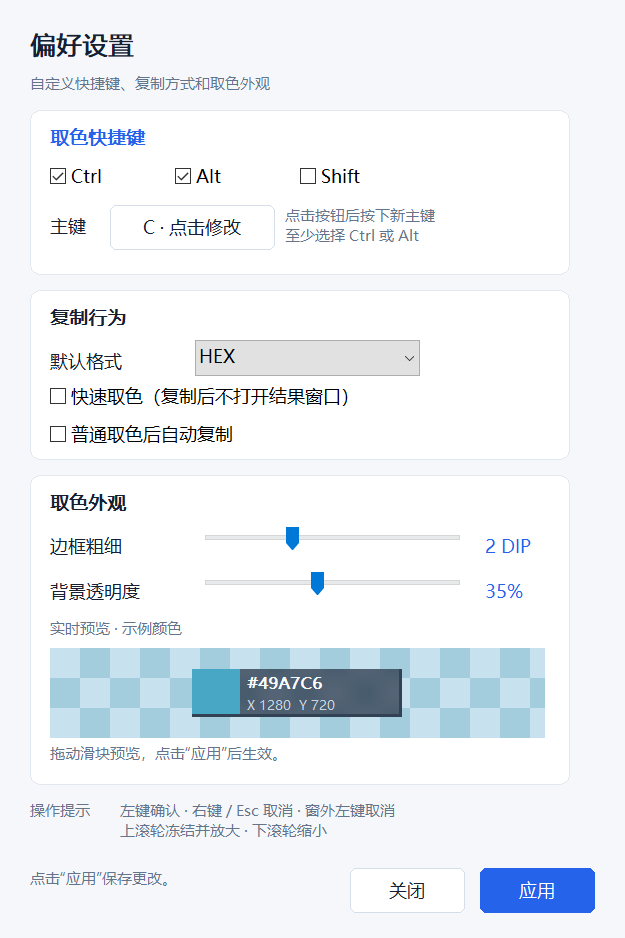
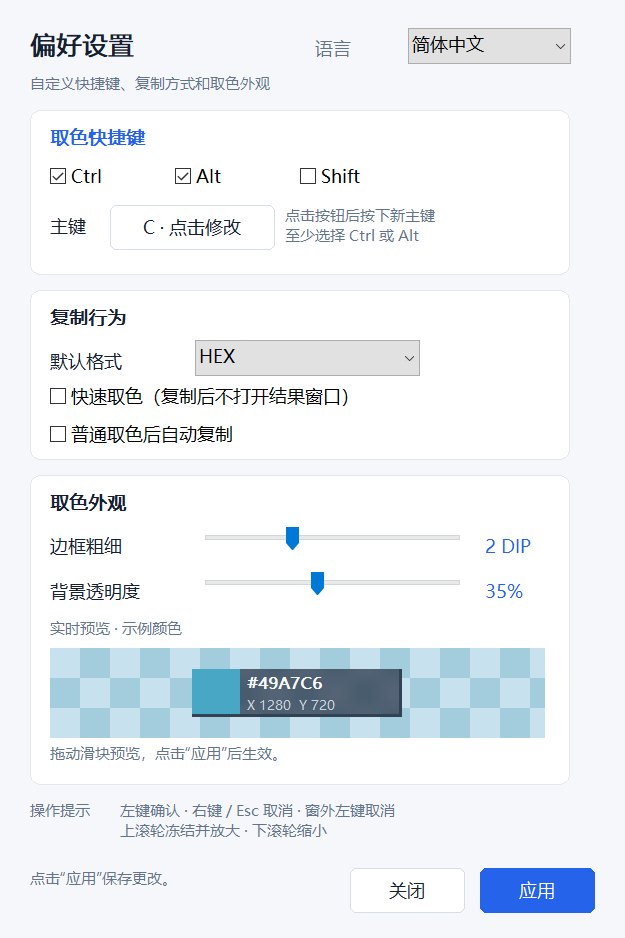
docs(i18n): document language selection and refresh bilingual previews

Changed region(s): [[0.6384, 0.0309, 0.912, 0.0928], [0.4864, 0.0309, 0.5472, 0.0618]]

diff --git a/README.md b/README.md
@@ -12,9 +12,11 @@ A native Windows color picker that stays in your system tray. Pick a pixel anywh
 2. Run the installer, or extract the entire ZIP and open `color-picker.exe`. No administrator privileges are required.
 3. On your first manual launch, read the short guide, then find Color Picker in the system tray, including the hidden-icons area. Startup at Windows sign-in stays quiet.
 4. Press **Ctrl + Alt + C**, move over the color you want, and **left-click** to select it.
-5. In the result window, copy HEX, RGB, CSS RGB, or HSL. Choose **重新取色** (Pick again) to select another color.
+5. In the result window, copy HEX, RGB, CSS RGB, or HSL. Choose **Pick again** to select another color.
 
-The target platform is **Windows 11 x64**. Windows 10 22H2 x64 compatibility has not yet been fully verified. The app's interface is currently **Simplified Chinese**; the installer offers English and Simplified Chinese. Builds are currently unsigned. See [known limitations](docs/known-limitations.md) for the validation status.
+The app and installer support **English and Simplified Chinese**. The app initially follows your Windows display language: Chinese uses Simplified Chinese; other languages use English. Change **Language** in Settings and click **Apply** to switch immediately, without restarting.
+
+The target platform is **Windows 11 x64**. Windows 10 22H2 x64 compatibility has not yet been fully verified. Builds are currently unsigned. See [known limitations](docs/known-limitations.md) for the validation status.
 
 ## Pick precisely
 
@@ -33,11 +35,11 @@ The frozen preview uses a snapshot, so you can inspect a tiny target without cha
 
 ![Frozen pixel grid with a color value, source coordinates, and zoom level](docs/images/ui-frozen.png)
 
-Starting again during an active pick does not create another session. The tray menu shows your current shortcut and whether Windows registered it successfully. Closing a result window leaves the app in the tray. To quit completely, right-click the tray icon and choose **退出** (Exit).
+Starting again during an active pick does not create another session. The tray menu shows your current shortcut and whether Windows registered it successfully. Closing a result window leaves the app in the tray. To quit completely, right-click the tray icon and choose **Exit**.
 
 ## Copy the format you need
 
-Every result includes the color swatch, original coordinates, and whether it came from live or frozen picking. Values are selectable, and each row has its own **复制** (Copy) button.
+Every result includes the color swatch, original coordinates, and whether it came from live or frozen picking. Values are selectable, and each row has its own **Copy** button.
 
 | Format | Example |
 | --- | --- |
@@ -46,18 +48,19 @@ Every result includes the color swatch, original coordinates, and whether it cam
 | CSS RGB | `rgb(255 0 0)` |
 | HSL | `hsl(0 100% 50%)` |
 
-The main Copy button uses your default format, initially HEX. A successful copy briefly changes that button to **已复制** (Copied), keeping the normal window layout stable. Only failures expand an error message. The result window supports **Tab**, **Enter**, and **Esc** for keyboard navigation and closing.
+The main Copy button uses your default format, initially HEX. A successful copy briefly changes that button to **Copied**, keeping the normal window layout stable. Only failures expand an error message. The result window supports **Tab**, **Enter**, and **Esc** for keyboard navigation and closing.
 
-**Automatic copying and Quick pick are off by default.** Ordinary automatic copying still opens the result window. Enable **快速取色** (Quick pick) to always copy the default format and continue in your current app, without a result popup or focus change on success. If copying fails, the result window appears so you can retry. Your ordinary automatic-copy preference is retained while Quick pick is on and resumes when you turn it off.
+**Automatic copying and Quick pick are off by default.** Ordinary automatic copying still opens the result window. Enable **Quick pick** to always copy the default format and continue in your current app, without a result popup or focus change on success. If copying fails, the result window appears so you can retry. Your ordinary automatic-copy preference is retained while Quick pick is on and resumes when you turn it off.
 
-![Color result with selectable values and copy controls](docs/images/ui-result.png)
+![Color result with selectable values and copy controls](docs/images/ui-result-en.png)
 
 ## Make it yours
 
-Right-click the tray icon and open **设置** (Settings).
+Right-click the tray icon and open **Settings** (设置 in Chinese).
 
 | Setting | Options | Default |
 | --- | --- | --- |
+| Language | English / 简体中文 | Matches Windows; English fallback |
 | Global shortcut | Ctrl and/or Alt, optional Shift, plus A–Z, 0–9, or F1–F11 | Ctrl + Alt + C |
 | Default copy format | HEX, RGB, CSS RGB, HSL | HEX |
 | Copy automatically after picking | On / off | Off |
@@ -67,9 +70,9 @@ Right-click the tray icon and open **设置** (Settings).
 
 To change the shortcut, select its modifiers, click the main-key button, and press the new letter, digit, or function key. **Esc** or moving focus away cancels key recording. F12 is reserved and cannot be used.
 
-Settings fits the monitor's available height. On a small display or at high scaling, scroll the content; **应用** (Apply) stays visible at the bottom. The sample-color preview updates immediately as you drag the border and transparency sliders. It uses synthetic colors and saves nothing until you click Apply.
+Settings fits the monitor's available height. On a small display or at high scaling, scroll the content; **Apply** stays visible at the bottom. The sample-color preview updates immediately as you drag the border and transparency sliders. It uses synthetic colors and saves nothing until you click Apply.
 
-Click **应用** (Apply) to save, then close Settings before picking again. A pick request while Settings is open restores that window and explains why picking is paused, preserving your edits. Closing without applying discards your edits. If a new shortcut is unavailable or saving fails, the previous settings remain active. Picking previews and the result window share a right and bottom border. Transparency affects the picking previews' information backgrounds; color swatches and magnified pixels stay opaque.
+Click **Apply** (应用 in Chinese) to save, then close Settings before picking again. A saved language change updates Settings, the tray menu, and subsequent picking windows immediately, while preserving your scroll position. A pick request while Settings is open restores that window and explains why picking is paused, preserving your edits. Closing without applying discards your edits. If a new shortcut is unavailable or saving fails, the previous settings and language remain active. Picking previews and the result window share a right and bottom border. Transparency affects the picking previews' information backgrounds; color swatches and magnified pixels stay opaque.
 
 Settings are stored in `%LOCALAPPDATA%\color-picker\config.json`, including for portable use. A missing file uses defaults. If a file is invalid, unreadable, or from an unsupported version, the app preserves it, uses defaults, and disables saving. Exit the app, repair or move that file, then restart; you do not need to create a replacement manually.
 
@@ -115,6 +118,8 @@ cargo test --locked --test windows_capture --test windows_preview --test windows
 These tests create temporary windows and app instances, exercise input-hook setup, and temporarily use the default shortcut. They do not generate real keyboard/mouse input or change the clipboard, and do not replace manual display and input testing. Non-Windows systems can run the platform-independent tests with `cargo test --lib --tests --locked`; the app itself is Windows-only.
 
 For automation, pass `--no-onboarding` to suppress the welcome guide without marking it as seen; the next ordinary manual launch can still show it. `--startup` also suppresses the guide and quietly exits when another instance is already running. The optional `quick_pick` setting defaults to `false`, including when loading older configuration files that omit it.
+
+The optional `language` setting accepts `"en"` and `"zh-CN"`. Older configuration files without it use the Windows language default until a choice is saved. Translation pairs and formatted messages use `tr` / `tr_format!` from `src/app/i18n.rs`; the active choice belongs to the UI thread, and both format strings are checked by the compiler. Native Windows error details may follow the operating system's language.
 
 | Location | Purpose |
 | --- | --- |

diff --git a/docs/ui-preview.md b/docs/ui-preview.md
@@ -11,7 +11,11 @@
 设置继续使用浅灰背景、白色卡片与蓝色主操作。
 应用、托盘、结果 / 设置窗口、安装器共用透明底的青蓝滴管图标，提供 16–256 像素的九档尺寸。
 图标源文件为 `resources/app.svg`，可运行 `scripts/generate-icon.ps1` 重建 ICO；正常构建无需图标生成工具。
-颜色值使用等宽字体，中文使用 Microsoft YaHei UI。实时和冻结取色浮窗使用
+应用支持简体中文和英文，首次使用跟随 Windows 显示语言，非中文使用英文。
+设置页顶部的语言下拉框只修改草稿；点击“应用”保存成功后立即刷新设置、托盘与后续取色窗口，
+无需重启，并保留当前滚动位置。保存失败或快捷键冲突时仍使用原语言。
+旧配置缺少 `language` 时使用系统默认语言；保存的 `zh-CN` / `en` 选择在重启后保留。
+颜色值使用等宽字体，中文使用 Microsoft YaHei UI，英文使用 Segoe UI。实时和冻结取色浮窗使用
 统一的深色配色与分级文字，保留原有像素绘制和命中映射。
 
 所有交互仍为原生 Win32 控件。只读色值可选择，Tab / Enter / Esc、复制重试、
@@ -57,8 +61,8 @@
 ## 本机检查
 
 - Windows 11；图片由预览程序直接导出自身原生窗口，使用合成取色数据。
-- `scripts/verify-windows.ps1` 通过：格式、Clippy、94 项默认测试、x64 Release、
-  嵌入 manifest 和 PerMonitorV2 检查；另串行运行 13 项桌面测试通过。
+- `scripts/verify-windows.ps1` 通过：格式、Clippy、98 项默认测试、x64 Release、
+  嵌入 manifest 和 PerMonitorV2 检查；另串行运行 15 项桌面测试通过。
 - 主程序、示例和测试统一嵌入 Common Controls v6 清单。首次指引打开时的宿主退出已实测，
   会立即关闭指引并保留未读状态；收到退出或环境变化后不会执行旧取色请求。
 - 已有 `windows_selection_ui` 桌面冒烟通过，覆盖冻结倍率映射、只读色值、
@@ -69,6 +73,8 @@
   这些复制路径检查使用模拟结果，不改写真实剪贴板。
 - 外观滑块的范围、初值、方向键 / End、Tab 顺序、数值刷新、仅应用返回草稿均通过；
   旧配置补默认值、新参数保存重载、非法范围保护已用隔离配置文件验证。
+- 中英文配置往返、语言保存失败回滚、设置草稿与滚动位置保留、英文复制反馈的原生字体宽度、
+  两种语言下的多 DPI 放大镜布局均有回归覆盖；两种语言的设置与结果窗口已导出检查。
 - 上、下方鼠标锚点的 4×→8×→16×→32× 及反向缩小已通过真实 GDI 离屏绘图回归，
   比较屏幕绘制色值与源缓存命中，防止纵向裁剪反向。
 - 预览的置顶 / 不抢焦点 / 100 次资源释放检查通过：本轮 GDI 为 2，USER 为 2，
@@ -82,6 +88,8 @@
 ```powershell
 cargo run --release --example ui-preview -- result
 cargo run --release --example ui-preview -- settings
+cargo run --release --example ui-preview -- settings --language=en
+cargo run --release --example ui-preview -- result --language=zh-CN
 cargo run --release --example ui-preview -- live
 cargo run --release --example ui-preview -- frozen
 cargo run --release --example ui-preview -- frozen-edge
@@ -90,7 +98,8 @@ cargo run --release --example ui-preview -- live 60 --backdrop --border=4 --tran
 cargo run --example ui-preview -- result --color=F4F2F2 --output=target/result-preview.bmp
 ```
 
-可在模式后指定存活秒数（1–600）。预览中的“应用”只校验，不保存；
+可在模式后指定存活秒数（1–600）；`--language=en` / `--language=zh-CN` 指定预览语言，
+省略时跟随 Windows 显示语言。预览中的“应用”校验并切换预览语言，不保存；
 结果窗口的复制按钮在用户主动点击时仍会写入剪贴板。浮窗仅在这个合成预览中
 允许截图，正常程序继续排除取色浮窗，避免采到自身画面。
 `--backdrop` 会显示一个合成棋盘背景，方便检查磨砂；下方取色浮窗截图使用此背景。
@@ -99,9 +108,13 @@ cargo run --example ui-preview -- result --color=F4F2F2 --output=target/result-p
 
 ### 取色结果
 
+![English result](images/ui-result-en.png)
+
 ![取色结果](images/ui-result.png)
 
 ### 设置
+
+![English settings](images/ui-settings-en.png)
 
 ![设置](images/ui-settings.png)
 

diff --git a/README.zh-CN.md b/README.zh-CN.md
@@ -14,7 +14,9 @@
 4. 按 **Ctrl + Alt + C**，移动到目标颜色，**左键单击**确认。
 5. 在结果窗口复制 HEX、RGB、CSS RGB 或 HSL；点击**重新取色**可继续选取。
 
-目标平台为 **Windows 11 x64**，Windows 10 22H2 x64 尚未完成完整兼容性验证。应用界面目前为**简体中文**，安装器支持简体中文和英文。当前程序和安装包尚未签名，验证范围见[已知限制](docs/known-limitations.md)。
+应用与安装器支持**简体中文和英文**。应用初始跟随 Windows 显示语言：中文系统使用简体中文，其他语言使用英文。在设置中选择**语言**并点击**应用**即可立即切换，无需重启。
+
+目标平台为 **Windows 11 x64**，Windows 10 22H2 x64 尚未完成完整兼容性验证。当前程序和安装包尚未签名，验证范围见[已知限制](docs/known-limitations.md)。
 
 ## 精准取色
 
@@ -58,6 +60,7 @@
 
 | 设置 | 选项 | 默认值 |
 | --- | --- | --- |
+| 语言 | 简体中文 / English | 跟随 Windows，非中文使用英文 |
 | 全局快捷键 | Ctrl 和 / 或 Alt，可选 Shift，加 A–Z、0–9 或 F1–F11 | Ctrl + Alt + C |
 | 默认复制格式 | HEX、RGB、CSS RGB、HSL | HEX |
 | 取色后自动复制 | 开 / 关 | 关 |
@@ -69,7 +72,7 @@
 
 设置窗口按显示器可用高度调整大小。屏幕较小或缩放较高时，内容可滚动，底部的**应用**按钮保持可见。拖动边框与透明度滑块时，示例颜色预览立即更新；预览使用合成颜色，点击应用才会保存修改。
 
-点击**应用**保存，再关闭设置窗口即可继续取色。设置打开期间触发取色，会恢复已有设置窗口并说明暂停取色的原因，保留当前编辑内容。未应用就关闭会放弃修改。新快捷键冲突或保存失败时，旧设置继续有效。取色浮窗与结果窗口使用一致的右侧和底部边框；透明度仅影响取色浮窗的信息区背景，色块和放大像素始终保持不透明。
+点击**应用**保存，再关闭设置窗口即可继续取色。语言保存成功后，设置、托盘菜单及后续取色窗口立即使用新语言，设置页保留当前滚动位置。设置打开期间触发取色，会恢复已有设置窗口并说明暂停取色的原因，保留当前编辑内容。未应用就关闭会放弃修改。新快捷键冲突或保存失败时，旧设置和原语言继续有效。取色浮窗与结果窗口使用一致的右侧和底部边框；透明度仅影响取色浮窗的信息区背景，色块和放大像素始终保持不透明。
 
 配置保存在 `%LOCALAPPDATA%\color-picker\config.json`，便携版也使用这一位置。文件缺失时直接使用默认值。如果文件损坏、不可读或来自不支持的配置版本，程序会保留原文件，使用默认值并禁止保存。退出应用后修复或移走该文件，再启动即可恢复，无需手动创建新配置。
 
@@ -115,6 +118,8 @@ cargo test --locked --test windows_capture --test windows_preview --test windows
 这些测试会创建临时窗口和程序实例、检查输入钩子的安装，并短暂占用默认快捷键；不生成真实键鼠输入，也不修改剪贴板，不能替代人工显示和输入验收。非 Windows 平台可用 `cargo test --lib --tests --locked` 运行纯逻辑测试，应用本身仅支持 Windows。
 
 自动化启动时可传入 `--no-onboarding`，跳过首次指引且不将其标记为已显示，下次普通手动启动仍可显示。`--startup` 同样跳过指引，已有实例时安静退出。可选配置字段 `quick_pick` 默认为 `false`，旧配置缺少此字段时也保持关闭。
+
+可选配置字段 `language` 仅接受 `"zh-CN"` 和 `"en"`。旧配置缺少该字段时使用 Windows 语言默认值，应用保存后记住所选语言。翻译使用 `src/app/i18n.rs` 的 `tr` / `tr_format!` 成对维护，中英格式字符串均由编译器检查，活动语言保存在 UI 线程中。Windows 原生错误的详细信息可能使用操作系统语言。
 
 | 目录 | 用途 |
 | --- | --- |

diff --git a/docs/troubleshooting.md b/docs/troubleshooting.md
@@ -2,6 +2,12 @@
 
 [English README](../README.md) · [中文说明](../README.zh-CN.md)
 
+## Changing the interface language
+
+Open **Settings** (设置) from the tray menu, choose **Language** (语言), then click **Apply** (应用). English and Simplified Chinese are supported, and switching takes effect immediately without restarting. Changing the dropdown alone does not apply or save the choice. If saving or shortcut registration fails, the previous language remains active.
+
+On first use, Chinese Windows display languages select Simplified Chinese; other languages select English. Older configuration files without a `language` field use the same default. A saved choice survives restarts. The installer has its own language selection.
+
 ## The shortcut does nothing
 
 1. Check the system tray, including hidden icons, to confirm the app is running.
